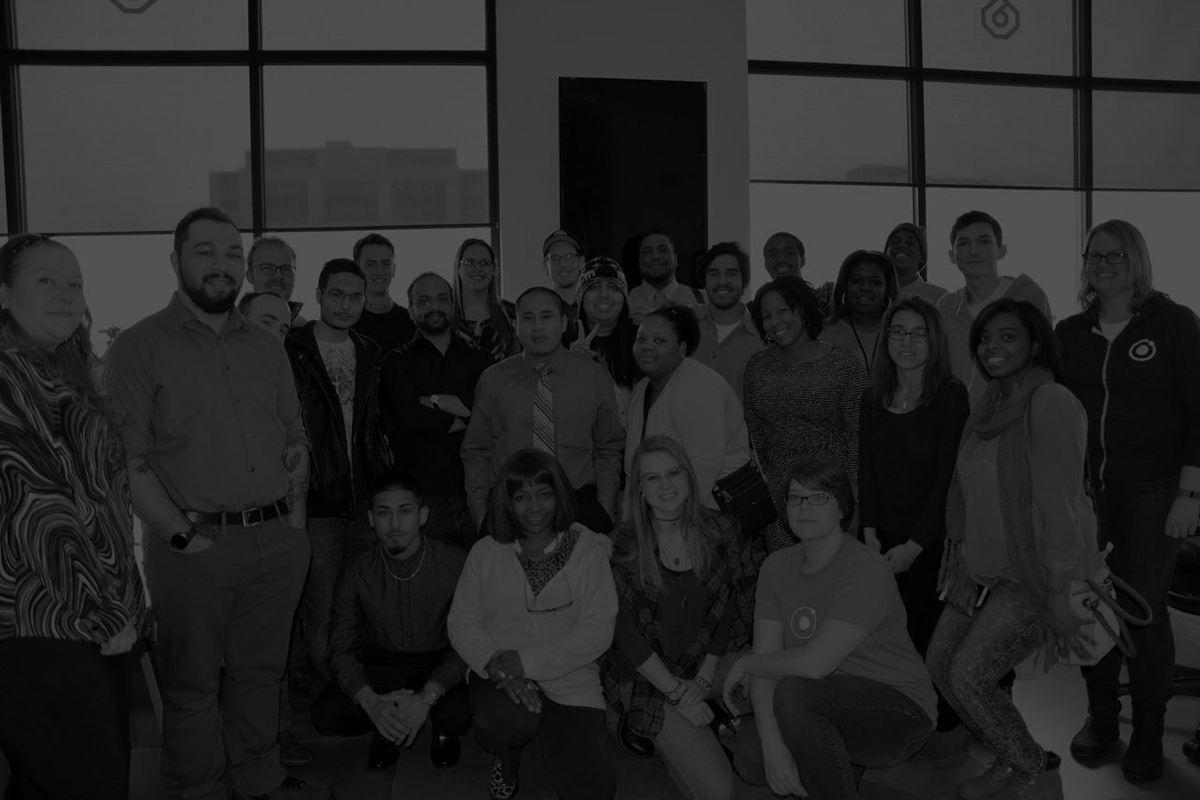
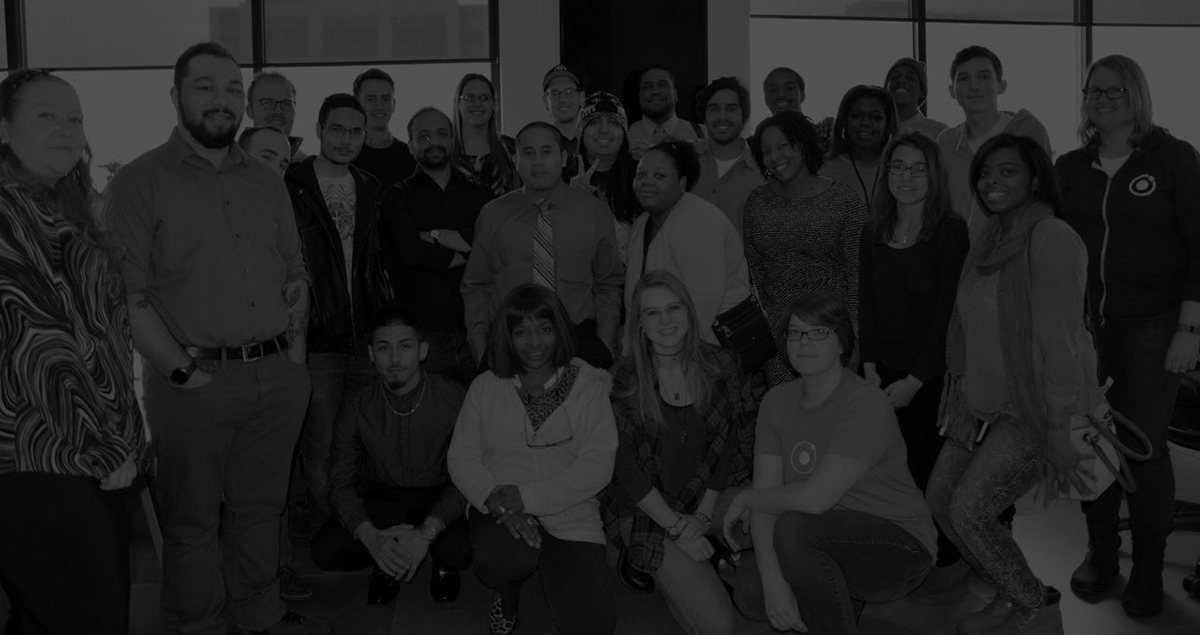
Fixed a form height, changed the footer picture

diff --git a/src/index.html b/src/index.html
@@ -111,13 +111,13 @@
 
           <div class="schedule">
 
-            <h5>2016</h5>
+            <h5>Fall 2016</h5>
 
-            <p>The next YWeb Career Academy class runs from September 15, 2016 through December 21, 2016.</p>
+            <p>The next YWeb Career Academy class starts soon.</p>
 
             <p>
               <a href="https://chriscoyier.wufoo.com/forms/apply-for-yweb-career-academy/" class="button button-full-width">
-                Apply Now
+                Start the Process
               </a>
             </p>
 
@@ -127,7 +127,7 @@
 
         <h3>Cohort 3 TimeLine </h3>
 
-        <iframe width="270" height="159" src="https://www.youtube.com/embed/zUFPXhhpJHM" frameborder="0" allowfullscreen></iframe>
+        <iframe src="https://www.youtube.com/embed/zUFPXhhpJHM" class="video" frameborder="0" allowfullscreen></iframe>
 
         <div class="module">
 
@@ -216,12 +216,12 @@
 
       </section>
 
-      <section class="map">
+      <section>
         <h2 id="location">Location</h2>
 
         <p>Classes are held at the YWCA Empowerment Center at 3101 Latham Dr, Madison, WI 53713.</p>
 
-        <iframe src="https://www.google.com/maps/embed?pb=!1m18!1m12!1m3!1d11665.171428805952!2d-89.39874777006573!3d43.03526937266909!2m3!1f0!2f0!3f0!3m2!1i1024!2i768!4f13.1!3m3!1m2!1s0x8807ad4c2d7114a5%3A0xe198d0827ec7f570!2s3101+Latham+Dr%2C+Madison%2C+WI+53713!5e0!3m2!1sen!2sus!4v1435261920086" allowfullscreen></iframe>
+        <iframe src="https://www.google.com/maps/embed?pb=!1m18!1m12!1m3!1d11665.171428805952!2d-89.39874777006573!3d43.03526937266909!2m3!1f0!2f0!3f0!3m2!1i1024!2i768!4f13.1!3m3!1m2!1s0x8807ad4c2d7114a5%3A0xe198d0827ec7f570!2s3101+Latham+Dr%2C+Madison%2C+WI+53713!5e0!3m2!1sen!2sus!4v1435261920086" class="map" allowfullscreen></iframe>
       </section>
 
     </div>

diff --git a/src/css/global.scss b/src/css/global.scss
@@ -157,7 +157,7 @@ video {
   }
 }
 
-iframe {
+.video {
    width: 100%;
    height: 200px;
    border: 0;
@@ -230,12 +230,17 @@ iframe {
 }
 
 .help-grid {
+  width: 965px;
   .module {
-    padding-right: 20px;
+    padding-right: 35px;
+    img {
+      width: 100%;
+    }
   }
 }
 
 .contact-form {
+  width: 100%;
   padding: 40px;
   border: 30px solid #eee;
   @media #{$breakpoint} {

diff --git a/src/css/_footer.scss b/src/css/_footer.scss
@@ -37,7 +37,7 @@
 }
 
 .site-footer {
-  background: $orange url(../images/footer.jpg) top center;
+  background: $orange url(../images/ionic-group1.jpg) top center;
   background-size: cover;
   padding-top: 800px;
   padding-bottom: 50px;
